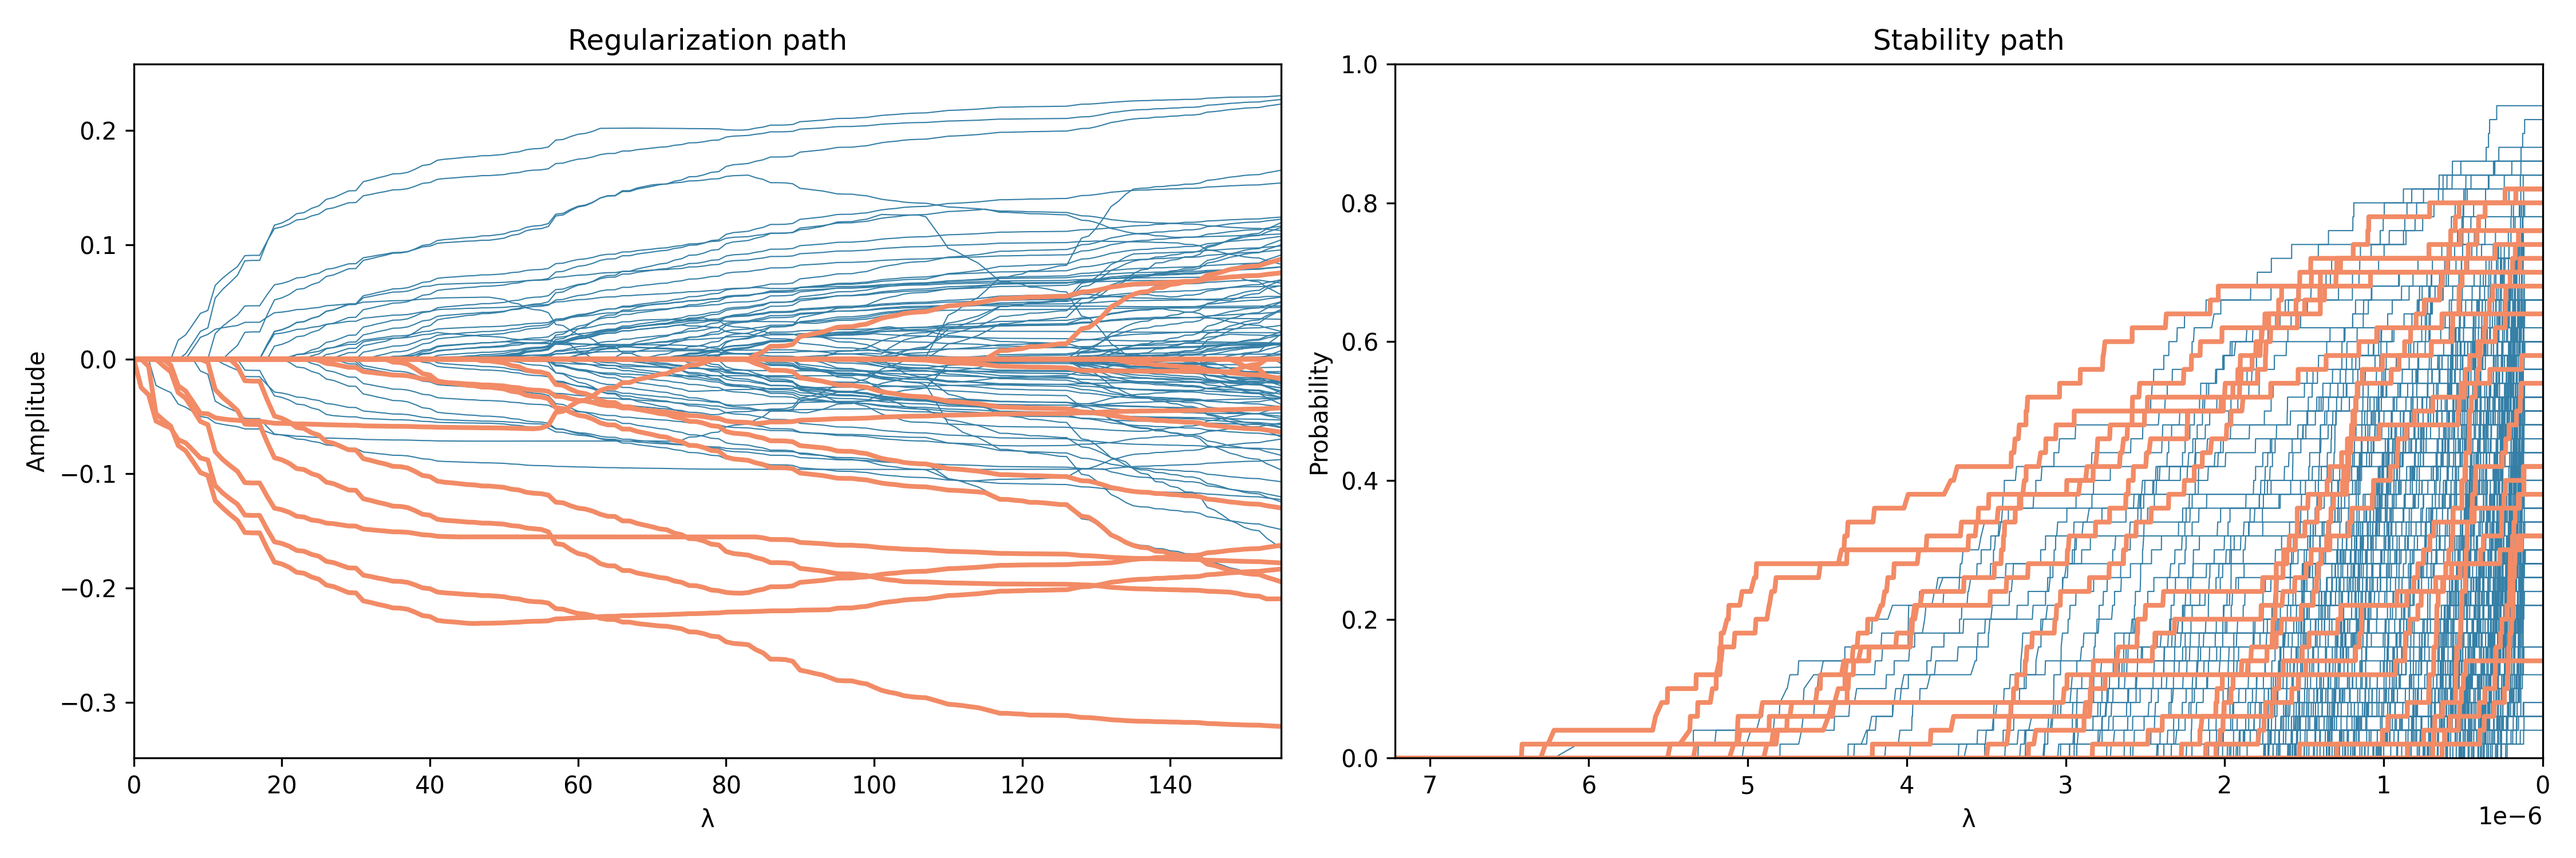
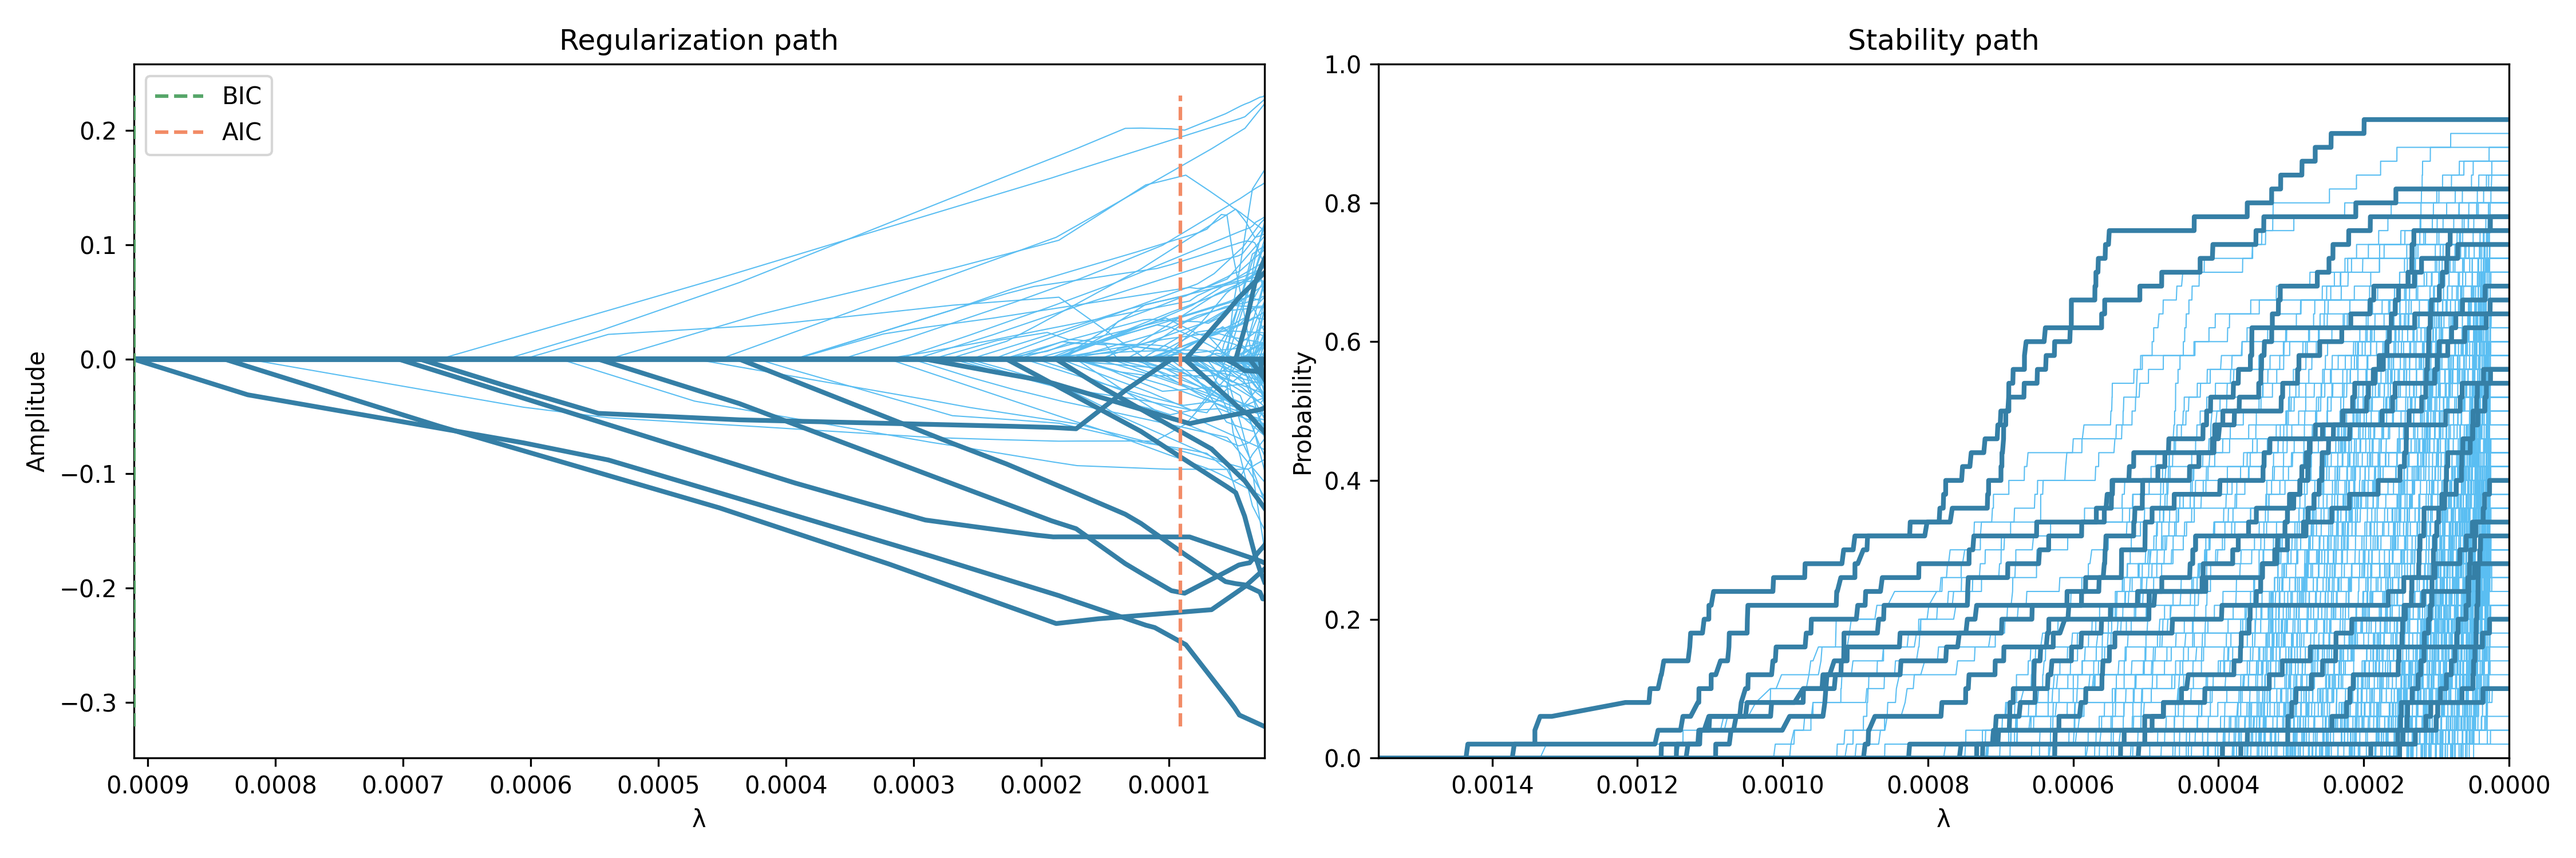
Improved design of figures

diff --git a/plot_reg_stab_paths.py b/plot_reg_stab_paths.py
@@ -1,8 +1,10 @@
 import os
 import subprocess
+from cProfile import label
 
 import matplotlib.pyplot as plt
 import numpy as np
+from matplotlib import style
 from sklearn.linear_model import lars_path
 
 # Global variables
@@ -154,15 +156,53 @@ def main(trial):
         eps=1e-6,
     )
 
+    # Multiply lambdas by nscans due to LARS implementation in scikit learn
+    lambdas *= nscans
+
+    #  Compute residuals for model selection criteria (BIC and AIC)
+    L2res = np.sum(
+        (np.repeat(y[:, np.newaxis], len(lambdas), axis=-1) - np.dot(hrf, coef_path)) ** 2, axis=0
+    )
+    # BIC regularization curve
+    bic = nscans * np.log(L2res) + np.log(nscans) * np.count_nonzero(coef_path, axis=0)
+    # AIC regularization curve
+    aic = nscans * np.log(L2res) + 2 * np.count_nonzero(coef_path, axis=0)
+
+    # Find the optimal lambdas for each selection criteria (BIC, AIC)
+    bic_idx = np.argmin(bic)
+    aic_idx = np.argmin(aic)
+
     # Plot regularization path on the left subplot of 2
     print("Plotting regularization path...")
     fig, ax = plt.subplots(1, 2, figsize=(15, 5))
     ax[0].margins(x=0)
-    ax[0].plot(coef_path[non_onset, :].T, color="#357FA6", linewidth=0.5)
-    ax[0].plot(coef_path[onsets, :].T, color="#F28B66", linewidth=2)
+    ax[0].plot(lambdas, coef_path[non_onset, :].T, color="#5ABEF2", linewidth=0.5)
+    ax[0].plot(lambdas, coef_path[onsets, :].T, color="#357FA6", linewidth=2)
+    # Add vertical lines at the optimal lambdas for each selection criteria (BIC, AIC) and position them on top of the plot
+    ax[0].vlines(
+        x=lambdas[bic_idx],
+        ymin=np.min(coef_path),
+        ymax=np.max(coef_path),
+        color="#56A669",
+        linestyle="dashed",
+        label="BIC",
+        zorder=10000,
+    )
+    ax[0].vlines(
+        x=lambdas[aic_idx],
+        ymin=np.min(coef_path),
+        ymax=np.max(coef_path),
+        color="#F28B66",
+        linestyle="dashed",
+        label="AIC",
+        zorder=10000,
+    )
+    ax[0].invert_xaxis()
     ax[0].set_xlabel("λ")
     ax[0].set_ylabel("Amplitude")
     ax[0].set_title("Regularization path")
+    # Add legend on the upper left corner of the plot
+    ax[0].legend(loc="upper left")
     print("Regularization path plotted.")
 
     # Initialize lambdas and coef_path for stability selection with nsurr surrogates
@@ -201,7 +241,7 @@ def main(trial):
         )
 
         # Save lambda and coef_path for surrogate with zero padding to fit the shape of lambda_surr and coef_path_surr
-        lambdas_surr[surr_idx, : temp_lambda.shape[0]] = temp_lambda
+        lambdas_surr[surr_idx, : temp_lambda.shape[0]] = temp_lambda * nscans
         coef_path_surr[surr_idx, :, : temp_coef_path.shape[1]] = temp_coef_path
 
         print(f"Surrogate {surr_idx + 1} of {nsurr} calculated.")
@@ -215,8 +255,8 @@ def main(trial):
     # Plot stability path
     print("Plotting stability path...")
     ax[1].margins(x=0)
-    ax[1].plot(lambdas_merged, stability_path[non_onset, :].T, color="#357FA6", linewidth=0.5)
-    ax[1].plot(lambdas_merged, stability_path[onsets, :].T, color="#F28B66", linewidth=2)
+    ax[1].plot(lambdas_merged, stability_path[non_onset, :].T, color="#5ABEF2", linewidth=0.5)
+    ax[1].plot(lambdas_merged, stability_path[onsets, :].T, color="#357FA6", linewidth=2)
     # Flip x axis
     ax[1].invert_xaxis()
     ax[1].set_xlabel("λ")
